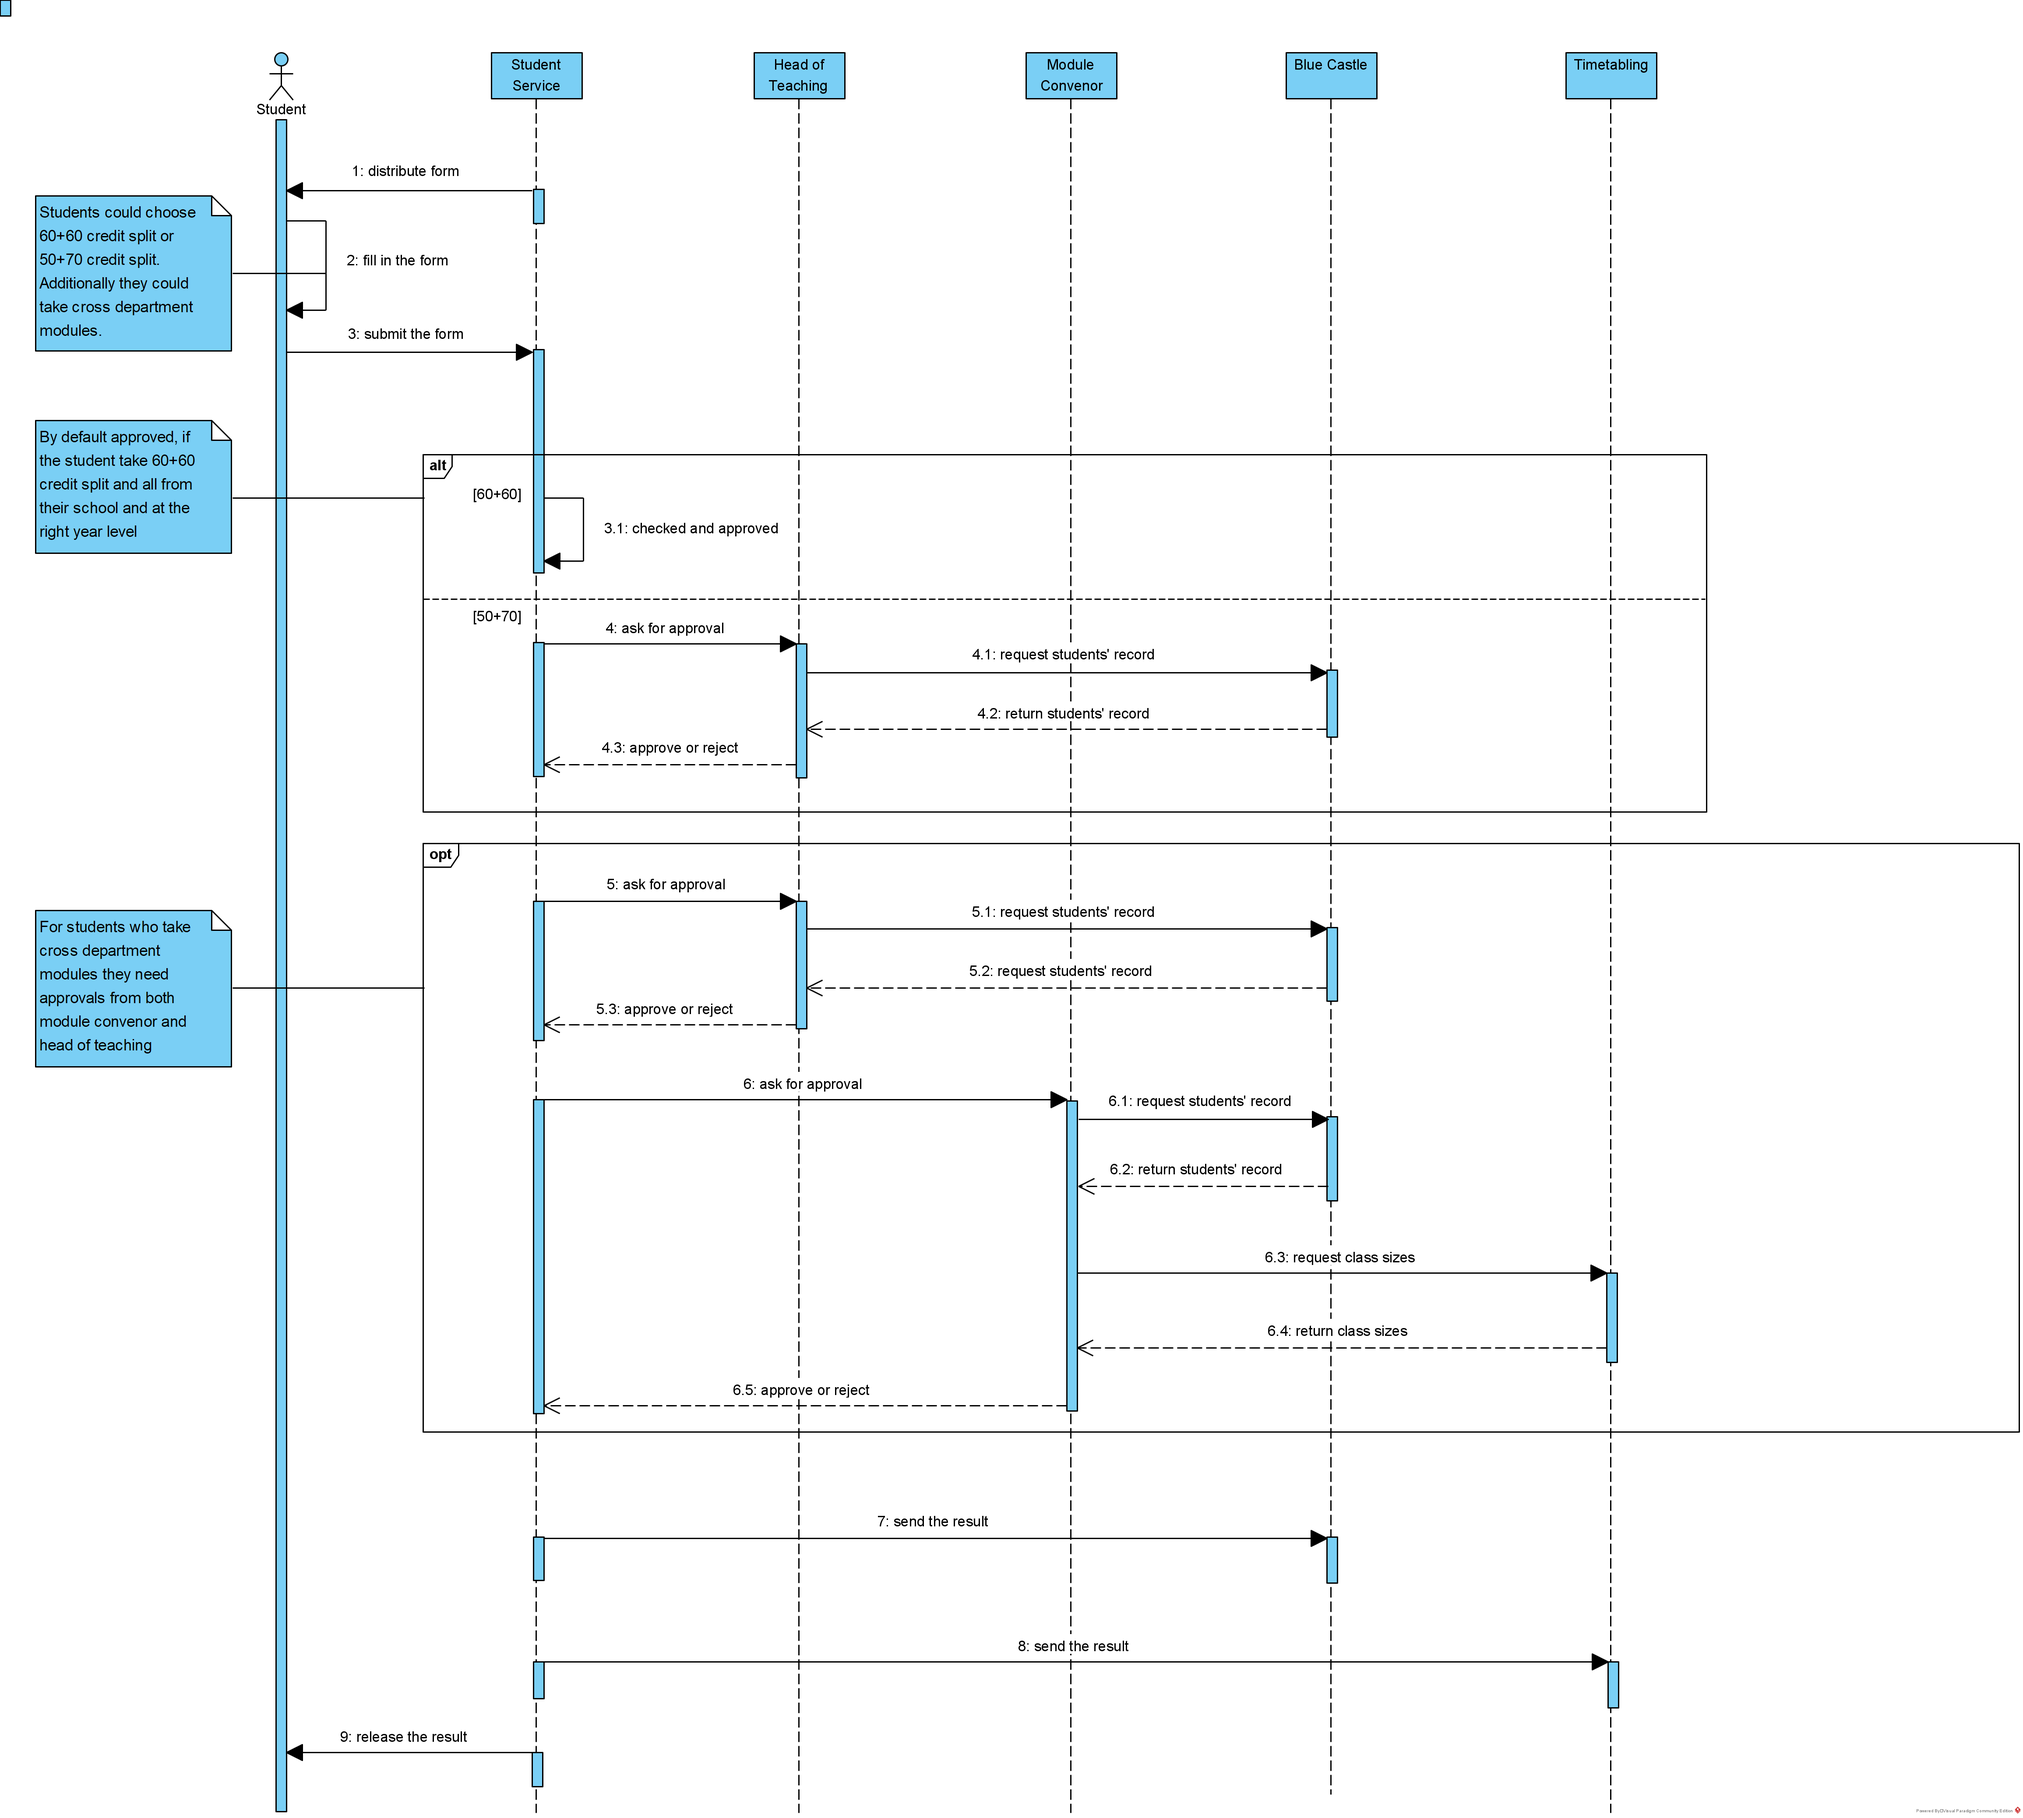
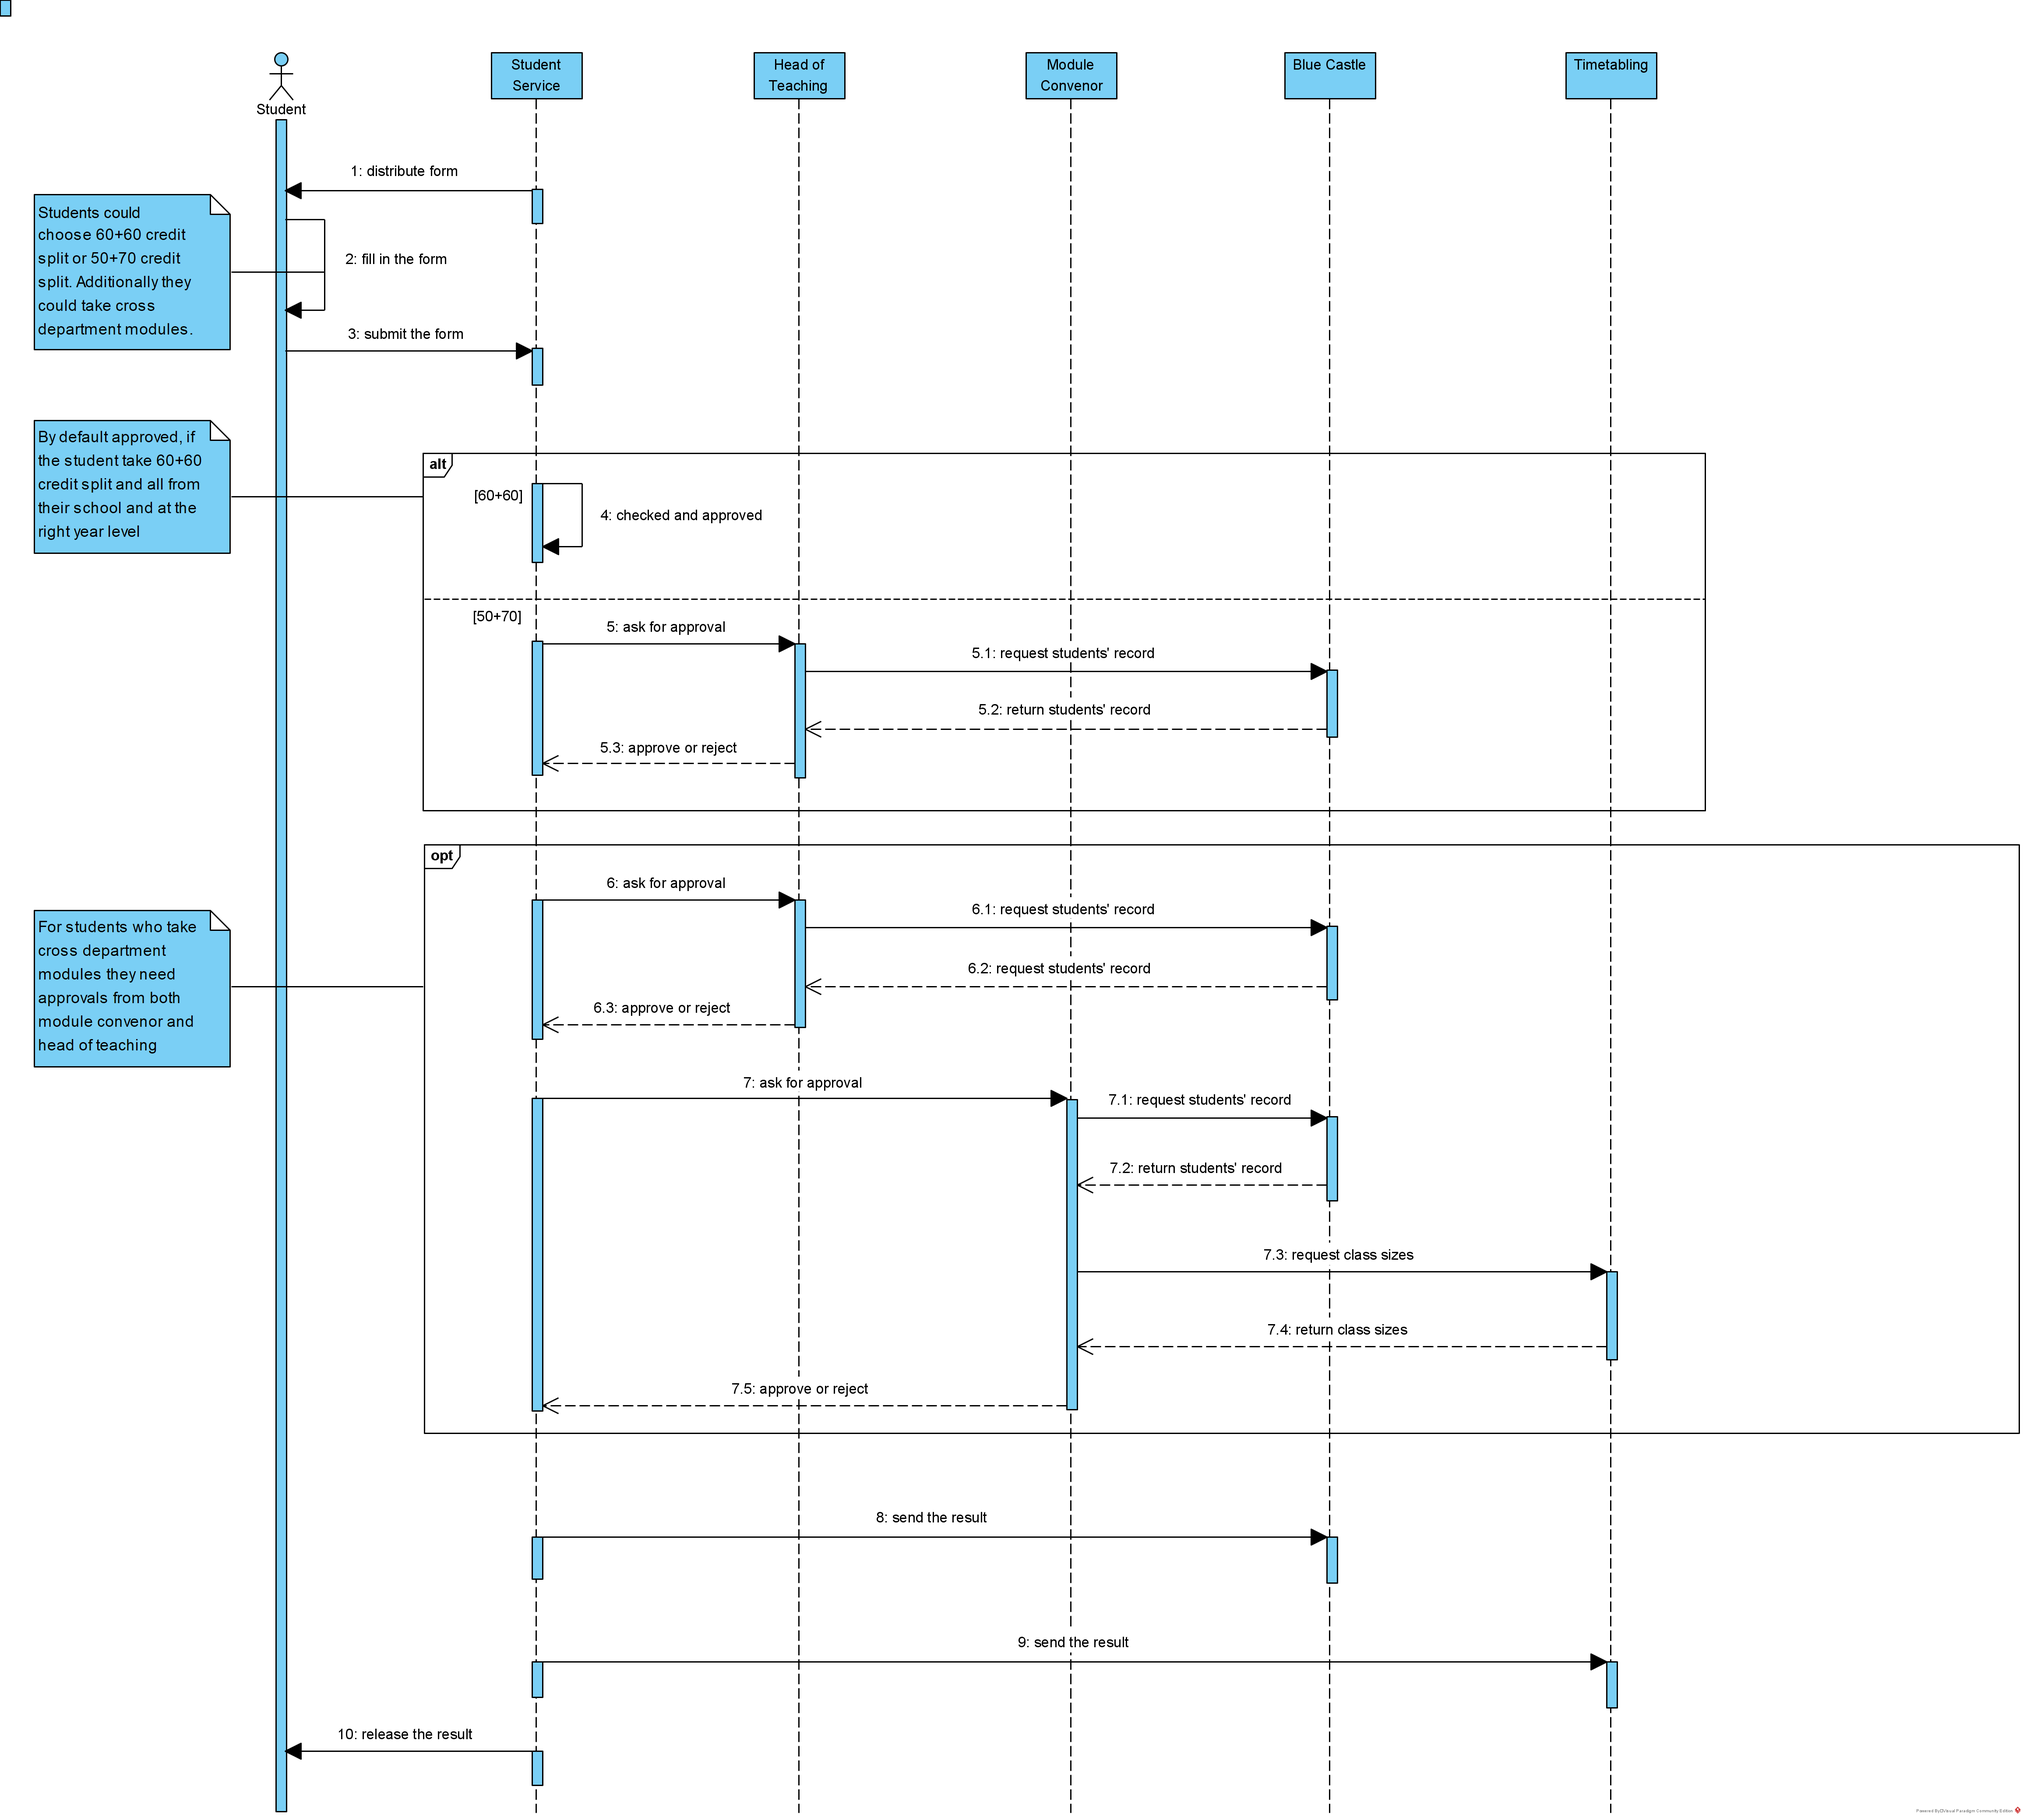
Update sequence Diagram and markdown file

diff --git a/lab03/docs/Lab03explanation-V3.md b/lab03/docs/Lab03explanation-V3.md
@@ -5,9 +5,9 @@
 * [<em><strong>Activity Diagram</strong></em>](#activity-diagram)
   * [<strong>Overview</strong>](#overview)
   * [<strong>Detailed flows</strong>](#detailed-flows)
-    * [<strong>Actors/Actions:</strong>](#actorsactions)
-    * [<strong>Steps:</strong>](#steps)
-    * [<strong>Note:</strong>](#note)
+    * [<strong>Actors/Actions</strong>](#actorsactions)
+    * [<strong>Steps</strong>](#steps)
+    * [<strong>Note</strong>](#note)
   * [<strong>Clarification</strong>](#clarification)
 * [<em><strong>Sequence Diagram</strong></em>](#sequence-diagram)
   * [<strong>Overview</strong>](#overview-1)
@@ -99,21 +99,17 @@ In the Clarification, we state our solutions to the vague part of the requiremen
 
 ## **Clarification**
 
-&nbsp;
-
 #### ***Question:*** *Should the rejections from module convenor and head of teaching be performed in the diagram?*
 
 #### ***Answer:*** *Yes, since activity diagram is used to explain the decision points and tell the clients what the results would be like in different conditions, we hold the viewpoint that these rejections should be performed in the diagram.*
 
-&nbsp;
-
 #### ***Question:*** *In this diagram, does student service need to send forms which require approval to either the head of teaching or module convenor? Or just let both the head of teaching and module convenor view all these forms and then make a decision?*
 
-#### ***Answer:*** *Because this is a completed system, we think that there is no need to 'send'. Nevertheless, it is impossible for module convenors and the head of teaching to view all these forms. Therefore, we decide to make this action be 'send the notification', which means inviting these teachers to view these particular forms.
+#### ***Answer:*** *Because this is a completed system, we think that there is no need to 'send'. Nevertheless, it is impossible for module convenors and the head of teaching to view all these forms. Therefore, we decide to make this action be 'send the notification', which means inviting these teachers to view these particular forms.*
 
 
 
-
+&nbsp;
 
 # ***Sequence Diagram***
 
@@ -167,7 +163,7 @@ In the Clarification, we state our solutions to the vague part of the requiremen
 - Student Service -->Timetabling --- **send the result**
 - Student Service --> Student --- **release the result**
 
-
+&nbsp;
 
 ### **Note:**
 
@@ -175,7 +171,7 @@ In the Clarification, we state our solutions to the vague part of the requiremen
 - According to the last sentence of the article *"These choices must be fed into other university software, two of which are: blue castle (student records) and timetabling (for room sizes)."*, we infer that Blue Castle provides students' records and Timetabling provides class sizes, which Module Convenor and Head of Teaching can have access to.
 - We thought there is one more step: after all of the forms being checked, the results will be released from Student Service to students.
 
-
+&nbsp;
 
 ## **Clarification**
 
